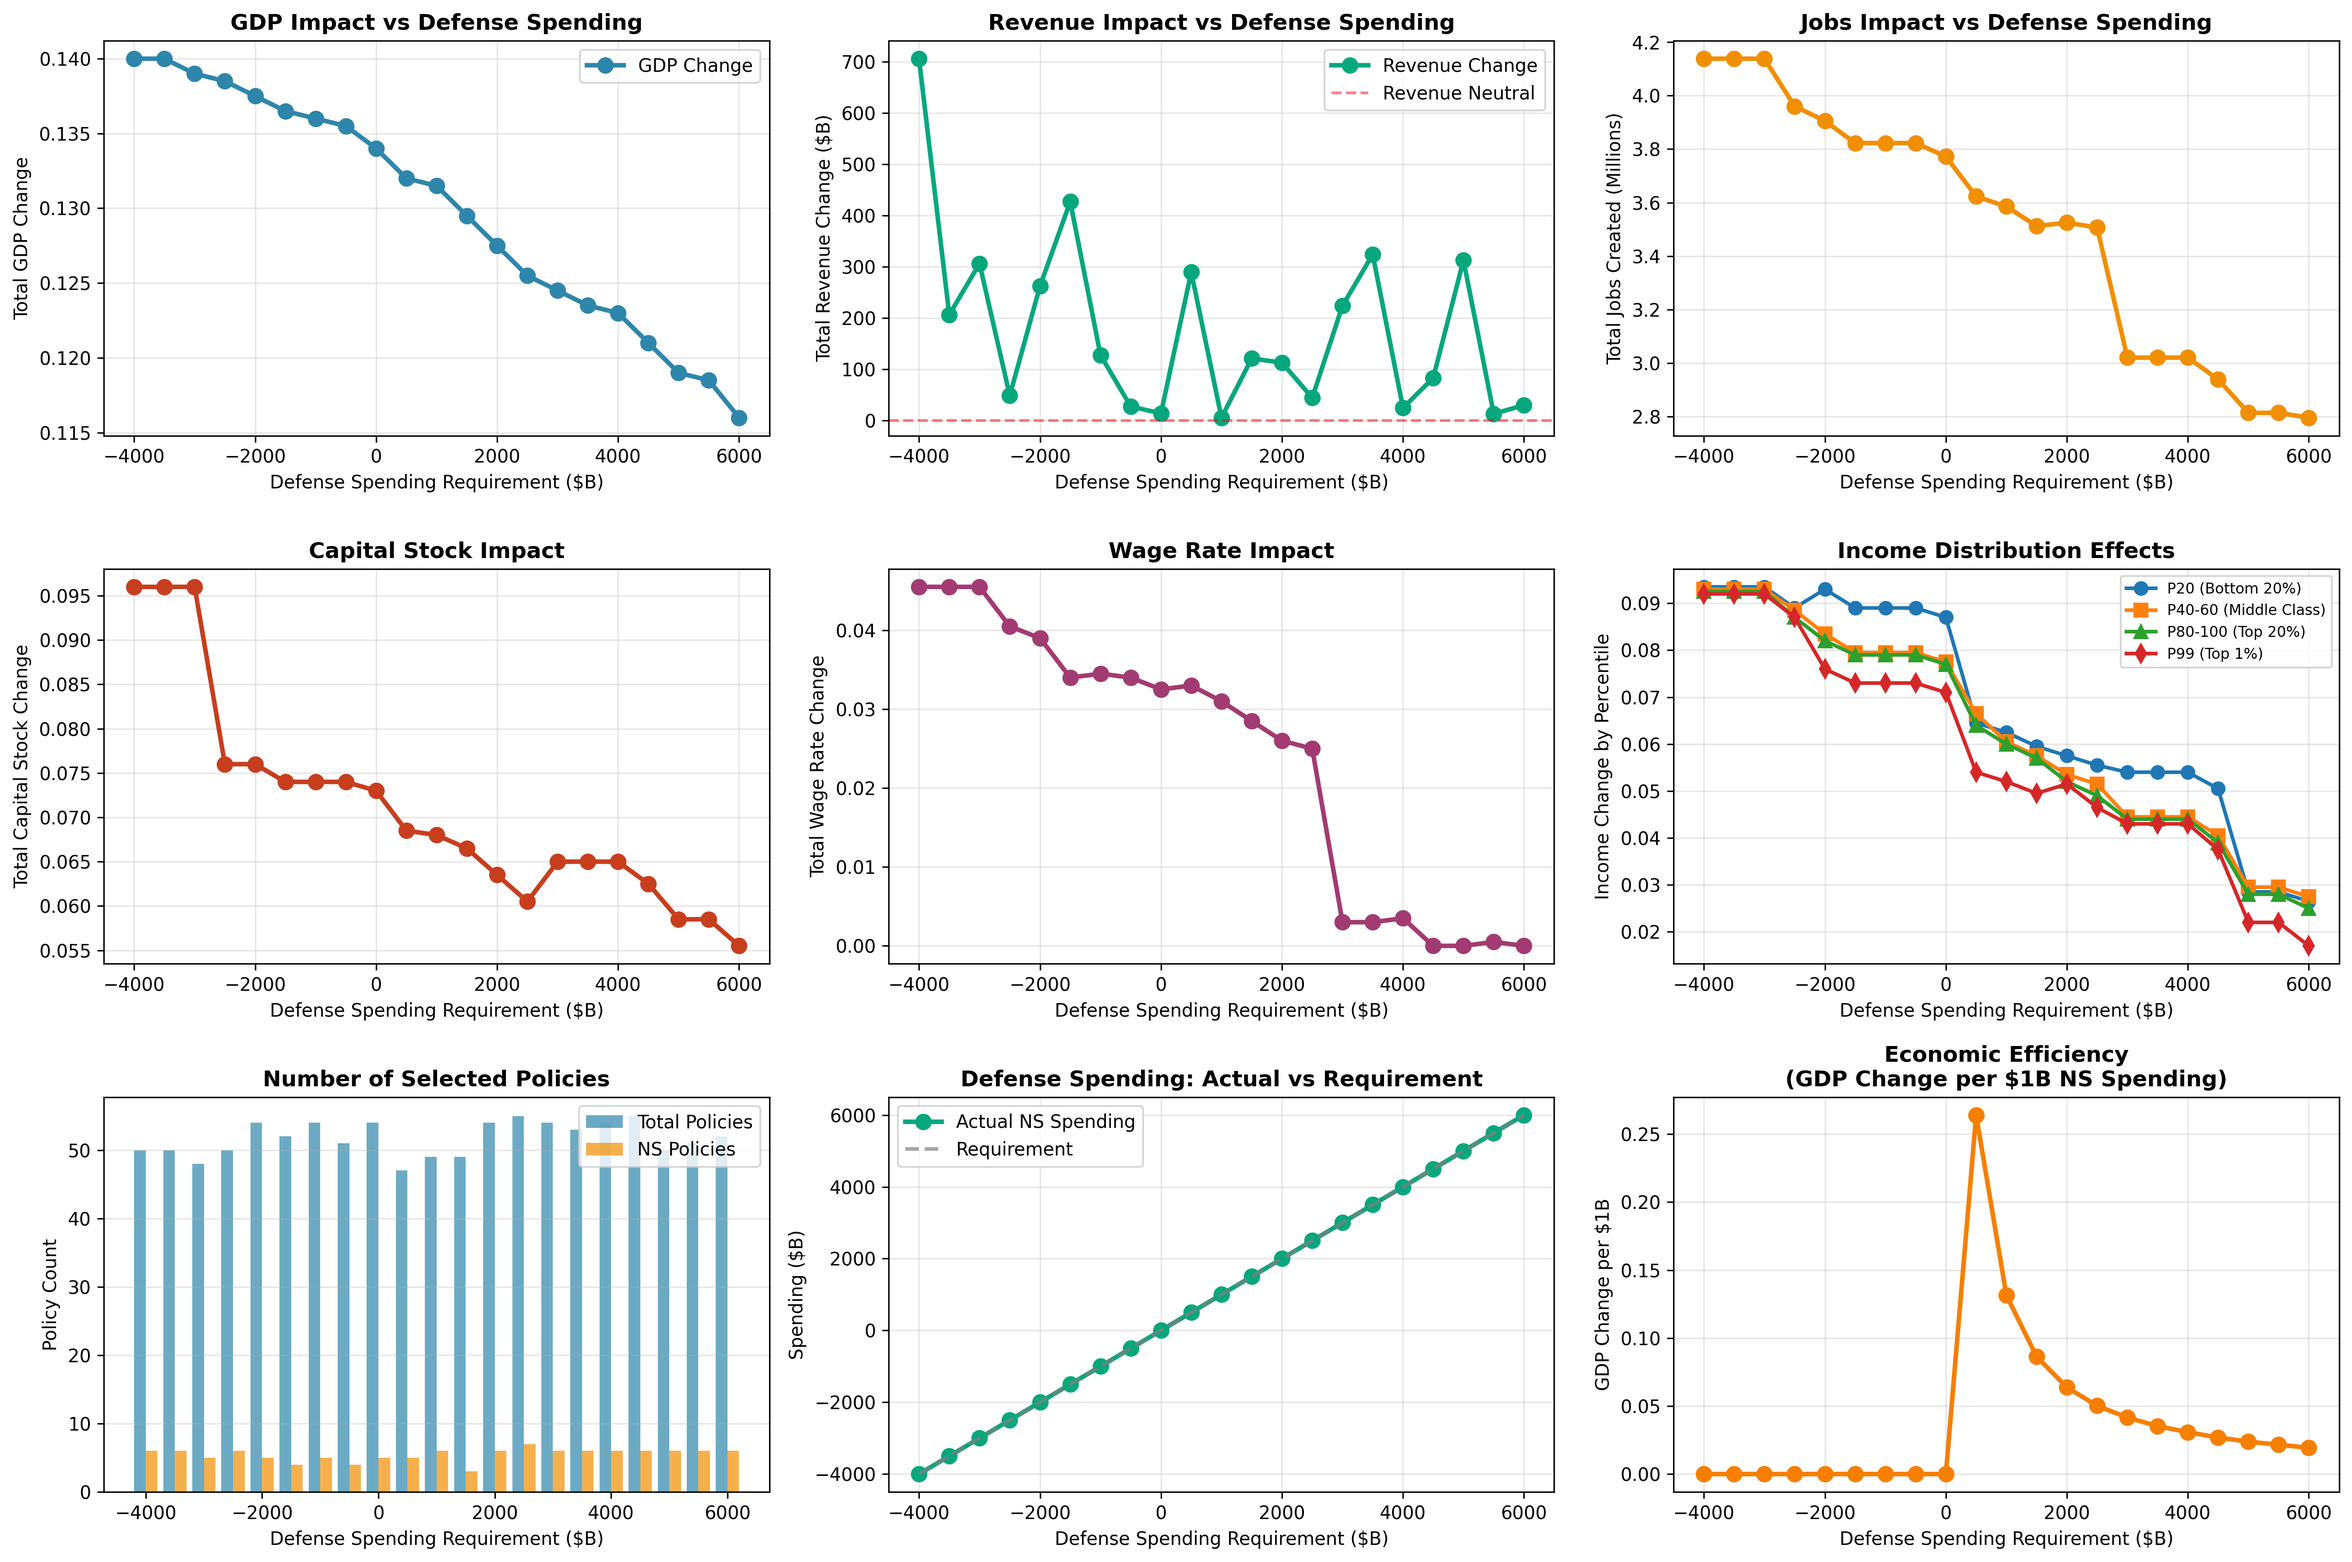
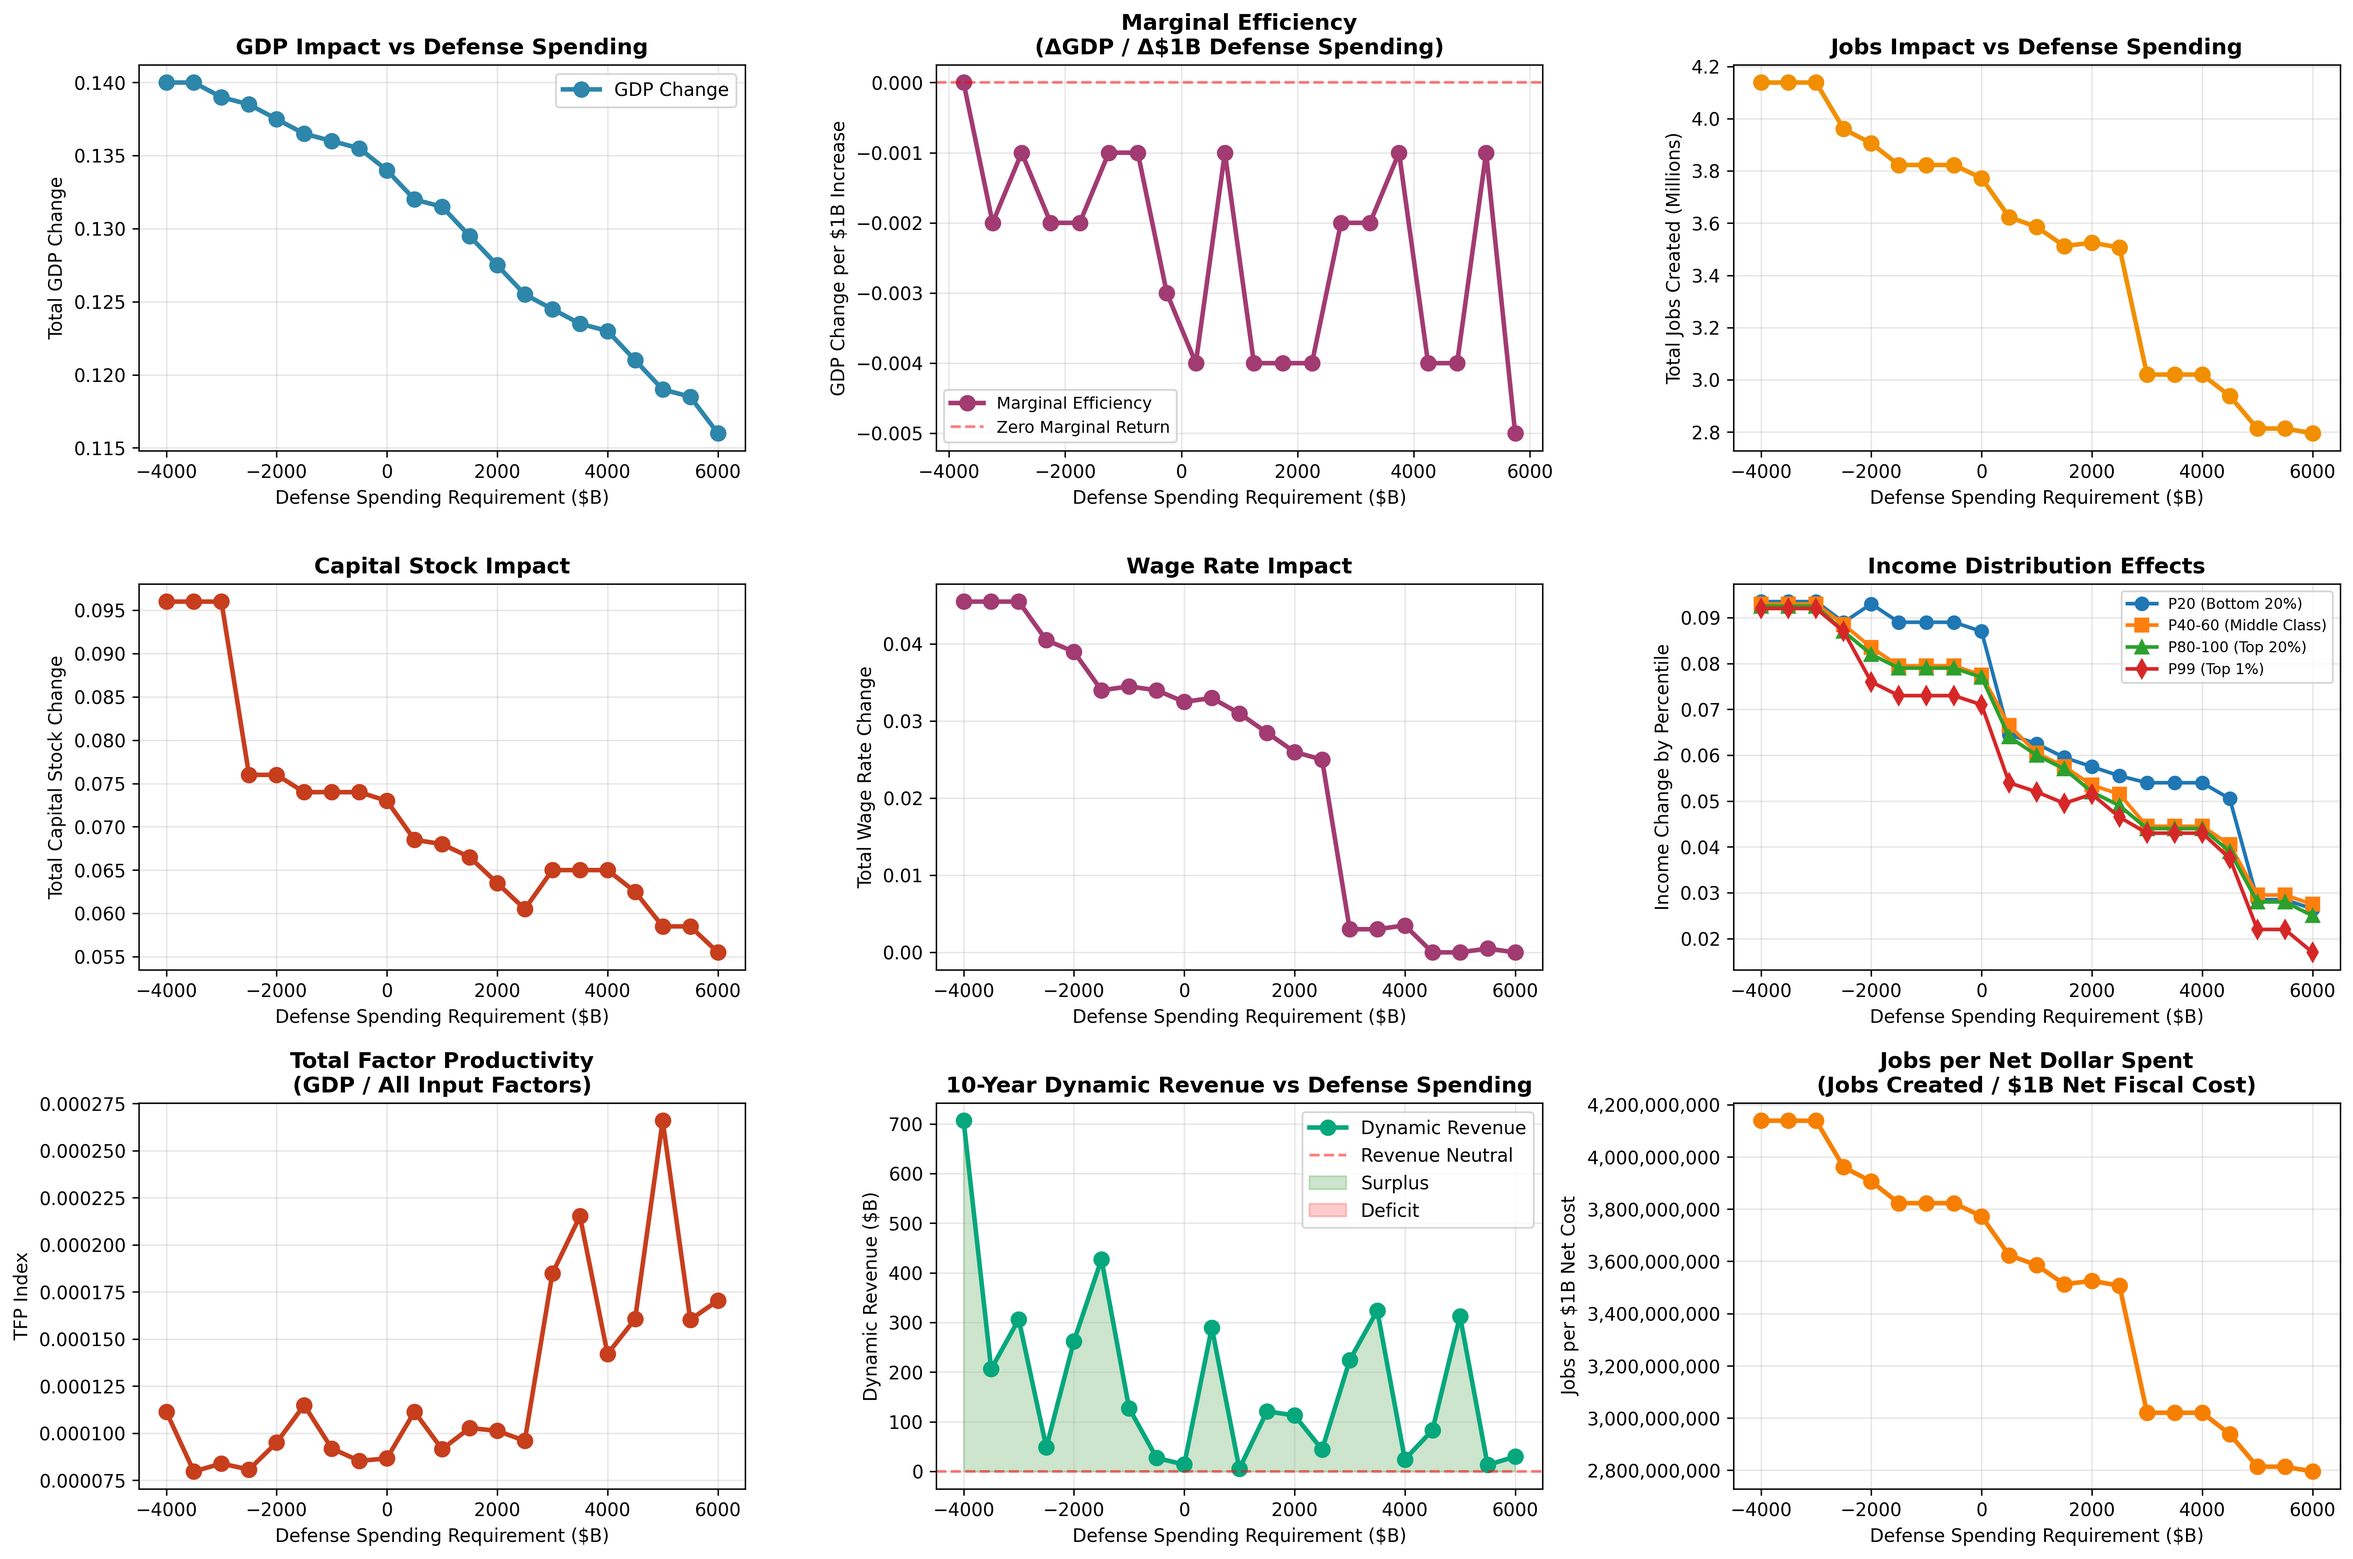
added better charts

diff --git a/visualize_defense_spending.py b/visualize_defense_spending.py
@@ -9,6 +9,7 @@ import pandas as pd
 import matplotlib.pyplot as plt
 import numpy as np
 from pathlib import Path
+from matplotlib.ticker import FuncFormatter
 
 # Ensure output directory exists
 output_dir = Path('outputs/defense')
@@ -36,6 +37,7 @@ metrics = {
     'jobs': [],
     'wage': [],
     'revenue': [],
+    'static_revenue': [],
     'p20': [],
     'p40_60': [],
     'p80_100': [],
@@ -56,6 +58,7 @@ for level in spending_levels:
     metrics['jobs'].append(df['Full-Time Equivalent Jobs'].sum())
     metrics['wage'].append(df['Wage Rate'].sum())
     metrics['revenue'].append(df['Dynamic 10-Year Revenue (billions)'].sum())
+    metrics['static_revenue'].append(df['Static 10-Year Revenue (billions)'].sum())
     metrics['p20'].append(df['P20'].sum())
     metrics['p40_60'].append(df['P40-60'].sum())
     metrics['p80_100'].append(df['P80-100'].sum())
@@ -96,16 +99,27 @@ ax1.set_ylabel('Total GDP Change', fontsize=10)
 ax1.grid(True, alpha=0.3)
 ax1.legend()
 
-# 2. Revenue Impact
+# 2. Marginal Efficiency (ΔGDP / ΔSpending)
 ax2 = plt.subplot(3, 3, 2)
-ax2.plot(metrics['spending'], metrics['revenue'], 'o-', linewidth=2.5,
-         markersize=8, color=colors['success'], label='Revenue Change')
-ax2.axhline(y=0, color='red', linestyle='--', alpha=0.5, linewidth=1.5, label='Revenue Neutral')
-ax2.set_title('Revenue Impact vs Defense Spending', fontsize=12, fontweight='bold')
+marginal_efficiency = []
+for i in range(1, len(metrics['spending'])):
+    delta_gdp = metrics['gdp'][i] - metrics['gdp'][i-1]
+    delta_spending = metrics['spending'][i] - metrics['spending'][i-1]
+    if delta_spending != 0:
+        marginal_efficiency.append(delta_gdp / delta_spending * 1000)  # per $1B
+    else:
+        marginal_efficiency.append(0)
+
+# Plot with x-axis as midpoints between spending levels
+midpoints = [(metrics['spending'][i] + metrics['spending'][i-1])/2 for i in range(1, len(metrics['spending']))]
+ax2.plot(midpoints, marginal_efficiency, 'o-', linewidth=2.5,
+         markersize=8, color=colors['secondary'], label='Marginal Efficiency')
+ax2.axhline(y=0, color='red', linestyle='--', alpha=0.5, linewidth=1.5, label='Zero Marginal Return')
+ax2.set_title('Marginal Efficiency\n(ΔGDP / Δ$1B Defense Spending)', fontsize=12, fontweight='bold')
 ax2.set_xlabel('Defense Spending Requirement ($B)', fontsize=10)
-ax2.set_ylabel('Total Revenue Change ($B)', fontsize=10)
+ax2.set_ylabel('GDP Change per $1B Increase', fontsize=10)
 ax2.grid(True, alpha=0.3)
-ax2.legend()
+ax2.legend(fontsize=9)
 
 # 3. Jobs Impact
 ax3 = plt.subplot(3, 3, 3)
@@ -146,48 +160,72 @@ ax6.set_ylabel('Income Change by Percentile', fontsize=10)
 ax6.legend(fontsize=8)
 ax6.grid(True, alpha=0.3)
 
-# 7. Policy Counts
+# 7. Total Factor Productivity (TFP)
 ax7 = plt.subplot(3, 3, 7)
-width = 200
-x_pos = np.array(metrics['spending'])
-ax7.bar(x_pos - width/2, metrics['n_policies'], width, alpha=0.7, 
-        label='Total Policies', color=colors['primary'])
-ax7.bar(x_pos + width/2, metrics['n_ns_policies'], width, alpha=0.7,
-        label='NS Policies', color=colors['tertiary'])
-ax7.set_title('Number of Selected Policies', fontsize=12, fontweight='bold')
-ax7.set_xlabel('Defense Spending Requirement ($B)', fontsize=10)
-ax7.set_ylabel('Policy Count', fontsize=10)
-ax7.legend()
-ax7.grid(True, alpha=0.3, axis='y')
+# TFP = GDP Change / (Capital + Labor + Net Fiscal Cost)
+# Normalize labor by dividing jobs by 1M to get comparable scale
+# Net Fiscal Cost = -Static Revenue (negative revenue is cost)
+tfp = []
+for i in range(len(metrics['spending'])):
+    capital = abs(metrics['capital'][i]) if metrics['capital'][i] != 0 else 0.01
+    labor = abs(metrics['jobs'][i] / 1e6) if metrics['jobs'][i] != 0 else 0.01  # Normalize to millions
+    fiscal_cost = abs(metrics['static_revenue'][i]) if metrics['static_revenue'][i] != 0 else 0.01
+    
+    total_inputs = capital + labor + fiscal_cost
+    if total_inputs > 0:
+        tfp.append(metrics['gdp'][i] / total_inputs)
+    else:
+        tfp.append(0)
 
-# 8. Actual NS Spending vs Requirement
+ax7.plot(metrics['spending'], tfp, 'o-', linewidth=2.5,
+         markersize=8, color=colors['quaternary'])
+ax7.set_title('Total Factor Productivity\n(GDP / All Input Factors)', fontsize=12, fontweight='bold')
+ax7.set_xlabel('Defense Spending Requirement ($B)', fontsize=10)
+ax7.set_ylabel('TFP Index', fontsize=10)
+ax7.grid(True, alpha=0.3)
+
+# 8. 10-Year Dynamic Revenue vs Defense Spending
 ax8 = plt.subplot(3, 3, 8)
-ax8.plot(metrics['spending'], metrics['ns_spending'], 'o-', linewidth=2.5,
-         markersize=8, color=colors['success'], label='Actual NS Spending')
-ax8.plot(metrics['spending'], metrics['spending'], '--', linewidth=2,
-         color='gray', alpha=0.7, label='Requirement')
-ax8.set_title('Defense Spending: Actual vs Requirement', fontsize=12, fontweight='bold')
+ax8.plot(metrics['spending'], metrics['revenue'], 'o-', linewidth=2.5,
+         markersize=8, color=colors['success'], label='Dynamic Revenue')
+ax8.axhline(y=0, color='red', linestyle='--', alpha=0.5, linewidth=1.5, label='Revenue Neutral')
+# Shade positive revenue area
+ax8.fill_between(metrics['spending'], 0, metrics['revenue'],
+                  where=[r >= 0 for r in metrics['revenue']],
+                  alpha=0.2, color='green', label='Surplus')
+# Shade negative revenue area
+ax8.fill_between(metrics['spending'], 0, metrics['revenue'],
+                  where=[r < 0 for r in metrics['revenue']],
+                  alpha=0.2, color='red', label='Deficit')
+ax8.set_title('10-Year Dynamic Revenue vs Defense Spending', fontsize=12, fontweight='bold')
 ax8.set_xlabel('Defense Spending Requirement ($B)', fontsize=10)
-ax8.set_ylabel('Spending ($B)', fontsize=10)
+ax8.set_ylabel('Dynamic Revenue ($B)', fontsize=10)
 ax8.legend()
 ax8.grid(True, alpha=0.3)
 
-# 9. Economic Efficiency: GDP per Dollar of NS Spending
+# 9. Jobs per Net Dollar Spent
 ax9 = plt.subplot(3, 3, 9)
-efficiency = []
+# Net Fiscal Cost = -Dynamic Revenue (negative revenue = cost, positive = surplus)
+# Jobs per $1B of net cost
+jobs_per_dollar = []
 for i in range(len(metrics['spending'])):
-    if metrics['ns_spending'][i] > 0:
-        eff = metrics['gdp'][i] / (metrics['ns_spending'][i] / 1000)  # GDP per $1B NS spending
-        efficiency.append(eff)
+    net_cost = -metrics['revenue'][i]  # Negative revenue becomes positive cost
+    if net_cost > 0:  # Only meaningful when there's actual cost
+        jobs_per_billion = metrics['jobs'][i] / net_cost
+        jobs_per_dollar.append(jobs_per_billion)
+    elif net_cost < 0:  # Revenue surplus - infinite efficiency
+        jobs_per_dollar.append(metrics['jobs'][i] / 0.001)  # Very high value for surplus scenarios
     else:
-        efficiency.append(0)
+        jobs_per_dollar.append(0)
 
-ax9.plot(metrics['spending'], efficiency, 'o-', linewidth=2.5,
+ax9.plot(metrics['spending'], jobs_per_dollar, 'o-', linewidth=2.5,
          markersize=8, color=colors['warning'])
-ax9.set_title('Economic Efficiency\n(GDP Change per $1B NS Spending)', fontsize=12, fontweight='bold')
+ax9.set_title('Jobs per Net Dollar Spent\n(Jobs Created / $1B Net Fiscal Cost)', fontsize=12, fontweight='bold')
 ax9.set_xlabel('Defense Spending Requirement ($B)', fontsize=10)
-ax9.set_ylabel('GDP Change per $1B', fontsize=10)
+ax9.set_ylabel('Jobs per $1B Net Cost', fontsize=10)
 ax9.grid(True, alpha=0.3)
+# Format y-axis to show thousands separator
+ax9.yaxis.set_major_formatter(FuncFormatter(lambda x, p: f'{int(x):,}'))
 
 plt.tight_layout()
 output_file = output_dir / 'defense_spending_analysis.png'
